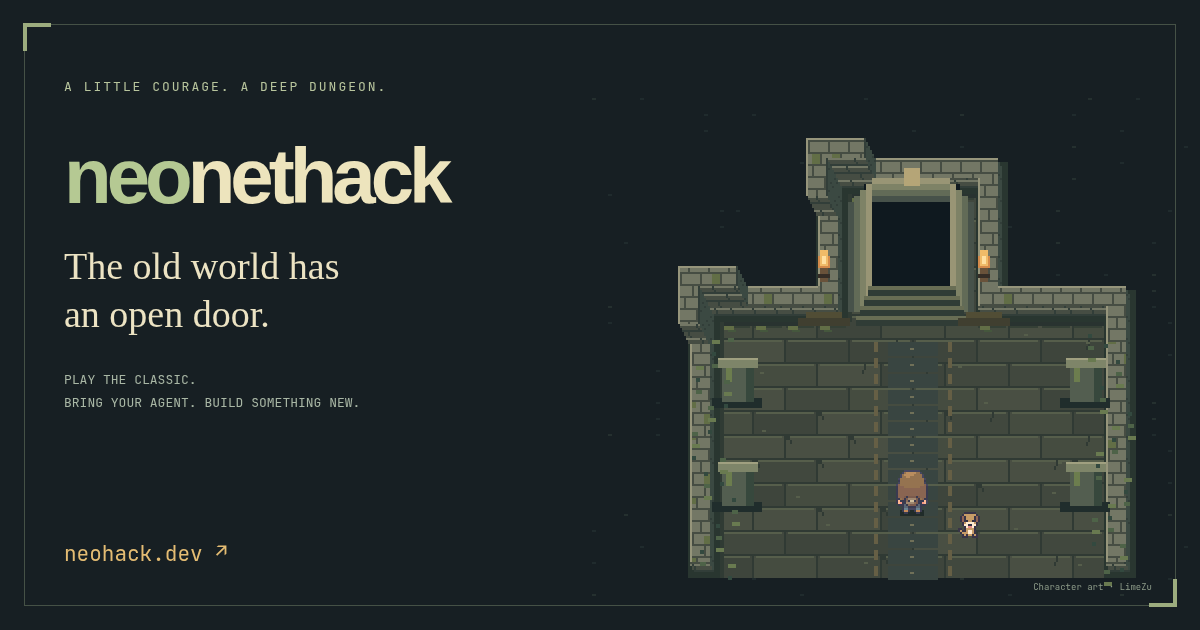
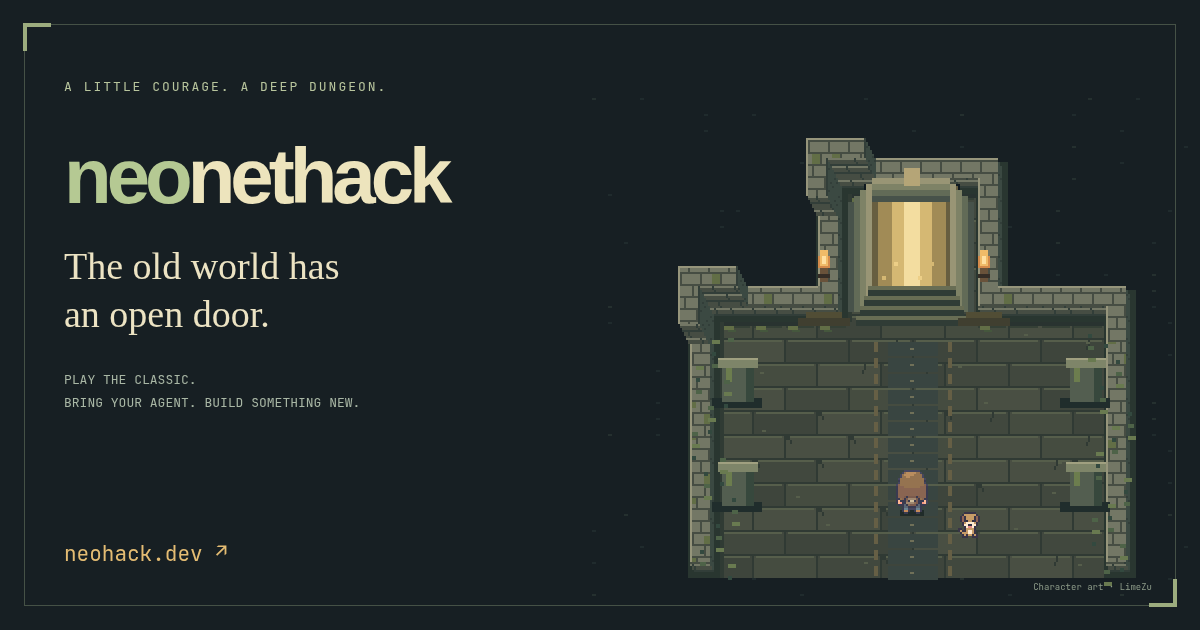
Add mouse camera controls, a glowing entrance, hobbit art, and idle cloud saving

Changed region(s): [[0.7092, 0.3016, 0.8017, 0.4524]]

diff --git a/example/pixel-bun/src/app.ts b/example/pixel-bun/src/app.ts
@@ -204,7 +204,7 @@ class PixelNethack extends HTMLElement {
     this.innerHTML = `
 
       <main id="main" tabindex="-1">
-        <div class="map-viewport"><canvas id="dungeon" tabindex="0" aria-label="Dungeon entrance. Use arrow keys to walk into the hall."></canvas></div>
+        <div class="map-viewport"><canvas id="dungeon" tabindex="0" aria-label="Dungeon entrance. Use arrow keys to walk into the hall."></canvas><button id="enter-gate" aria-label="Walk into the glowing gate and create an adventurer" title="Enter the dungeon"></button></div>
         <section id="welcome-copy" class="intro-title"><p class="eyebrow">A LITTLE COURAGE. A DEEP DUNGEON.</p><h1>neo<span>nethack</span></h1><p>The old world has an open door.</p><a class="paths-jump" href="#welcome-paths">Play, bring an agent, or build something new ↓</a></section>
         <section id="welcome-actions" class="intro-controls" aria-label="Learn to walk">
           <p id="intro-instruction">Walk into the light</p>
@@ -579,7 +579,7 @@ class PixelNethack extends HTMLElement {
           catch { this.text("#cloud-status", "Saved here · online save pending"); return; }
         }
         if (generation !== this.cloudStatusGeneration) return;
-        this.text("#cloud-status", state === "saved" ? "Saved online" : state === "pending" ? "Saving online…" : "Saved here · cloud sync paused");
+        this.text("#cloud-status", state === "saved" ? "Saved online" : state === "pending" ? "Saving online…" : state === "queued" ? "Saved here" : "Saved here · cloud sync paused");
         if (state === "error") this.error(Error(message));
       },
     });
@@ -800,6 +800,7 @@ class PixelNethack extends HTMLElement {
         labels[b.dataset.action!] ?? b.dataset.action!,
       );
     });
+    this.$("#enter-gate").onclick = () => this.walkToEntrance();
     this.$("#new-adventure").onclick = () => this.walkToEntrance();
     this.$("#continue-adventure").onclick = () =>
       this.resume(this.saves.find((s) => !s.ended)!);
@@ -808,12 +809,10 @@ class PixelNethack extends HTMLElement {
     this.$("#more-actions").setAttribute("aria-label", "More actions");
     this.$("#credits-button").onclick = () => this.credits();
     this.$("#zoom-in").onclick = () => {
-      this.map.zoom = Math.min(4, this.map.zoom + 1);
-      this.map.draw();
+      this.map.zoomTo(this.map.zoom + 1);
     };
     this.$("#zoom-out").onclick = () => {
-      this.map.zoom = Math.max(1, this.map.zoom - 1);
-      this.map.draw();
+      this.map.zoomTo(this.map.zoom - 1);
     };
     this.$("#center-map").onclick = () => this.map.center();
     this.$("#map-symbols").onclick = () => {
@@ -967,7 +966,7 @@ class PixelNethack extends HTMLElement {
       clearTimeout(this.cloudMetadataTimer);
       this.cloudMetadataTimer = setTimeout(() => {
         void publishCloud(this.saves, this.vault).catch(() => {});
-      }, 250);
+      }, 5000);
     }
 
   }
@@ -993,6 +992,7 @@ class PixelNethack extends HTMLElement {
     );
     for (const id of [
       "new-adventure",
+      "enter-gate",
       "continue-adventure",
       "adventures-button",
     ])
@@ -1013,6 +1013,7 @@ class PixelNethack extends HTMLElement {
     this.renderGround();
     this.show("#welcome-copy", !state);
     this.show("#welcome-actions", !state);
+    this.show("#enter-gate", !state);
     this.show("#welcome-paths", !state);
     this.show("#bookmark-hint", !!state);
     this.show("#abandon-run", !!state && !state.ended);
@@ -2137,7 +2138,7 @@ class PixelNethack extends HTMLElement {
   }
   private guide() {
     this.openMenu(
-      `<h2 id="menu-title">A small guide to a very big world.</h2><p>Find the Amulet of Yendor in the depths, and bring it back. Getting there is a story of curiosity, decisions, and learning from a short life or two.</p><div class="guide-section"><h3>01 / Take your time</h3><p>This is turn-based. Reading, inspecting the map, and opening your backpack cost nothing. An action can take time; the journal tells you what happened.</p></div><div class="guide-section"><h3>02 / Try one thing</h3><p>Tap W A S D, an arrow, or a direction button for one step; hold to walk. Release to stop repeating. Rapid taps keep at most one extra step buffered. Walking pauses at walls, nearby creatures, damage, and decisions. Press again deliberately to interact. Search around you, open a door, or pick up something interesting.</p></div><div class="guide-section"><h3>03 / Listen to the dungeon</h3><p>Hunger, danger, and strange objects are part of the adventure. Read warnings before answering. If eating or reading is interrupted, choose the action again only when you want to continue.</p></div><div class="guide-section"><h3>04 / Know what you know</h3><p>The map shows remembered terrain and currently perceived occupants. Creature and object art represents the visible NetHack category, not an exact identity. A green underline marks an ally. Use @ in the corner menu to show the original symbols. Raised stone edges frame corridors; recessed gaps lead toward unexplored space, where the layout is still unknown. Click a tile or open Surroundings for a text description.</p></div><dl class="key-list"><dt>W A S D / Arrows / H J K L</dt><dd>Tap to step · hold to walk</dd><dt>Y U B N</dt><dd>Move diagonally</dd><dt>. / F / G / E / O</dt><dd>Wait / search / pick up / eat / open</dd><dt>&lt; / &gt;</dt><dd>Go upstairs / downstairs</dd><dt>Enter / arrow keys / Escape</dt><dd>Inspect here / nearby tiles / return</dd><dt>I / ?</dt><dd>Backpack / this guide</dd><dt>Shift + arrows</dt><dd>Pan the map without moving</dd></dl><p class="save-explanation">Your game saves after each completed action, on this browser and address. Clearing site data removes saves. Keep the same game version to return to an older adventure.</p>`,
+      `<h2 id="menu-title">A small guide to a very big world.</h2><p>Find the Amulet of Yendor in the depths, and bring it back. Getting there is a story of curiosity, decisions, and learning from a short life or two.</p><div class="guide-section"><h3>01 / Take your time</h3><p>This is turn-based. Reading, inspecting the map, and opening your backpack cost nothing. An action can take time; the journal tells you what happened.</p></div><div class="guide-section"><h3>02 / Try one thing</h3><p>Tap W A S D, an arrow, or a direction button for one step; hold to walk. Release to stop repeating. Rapid taps keep at most one extra step buffered. Walking pauses at walls, nearby creatures, damage, and decisions. Press again deliberately to interact. Search around you, open a door, or pick up something interesting.</p></div><div class="guide-section"><h3>03 / Listen to the dungeon</h3><p>Hunger, danger, and strange objects are part of the adventure. Read warnings before answering. If eating or reading is interrupted, choose the action again only when you want to continue.</p></div><div class="guide-section"><h3>04 / Know what you know</h3><p>The map shows remembered terrain and currently perceived occupants. Creature and object art represents the visible NetHack category, not an exact identity. A green underline marks an ally. Use @ in the corner menu to show the original symbols. Raised stone edges frame corridors; recessed gaps lead toward unexplored space, where the layout is still unknown. Click a tile or open Surroundings for a text description.</p></div><dl class="key-list"><dt>W A S D / Arrows / H J K L</dt><dd>Tap to step · hold to walk</dd><dt>Y U B N</dt><dd>Move diagonally</dd><dt>. / F / G / E / O</dt><dd>Wait / search / pick up / eat / open</dd><dt>&lt; / &gt;</dt><dd>Go upstairs / downstairs</dd><dt>Enter / arrow keys / Escape</dt><dd>Inspect here / nearby tiles / return</dd><dt>I / ?</dt><dd>Backpack / this guide</dd><dt>Mouse wheel / middle drag</dt><dd>Zoom / look around without taking a turn</dd><dt>Shift + arrows</dt><dd>Pan the map without moving</dd></dl><p class="save-explanation">Your game saves after each completed action, on this browser and address. Clearing site data removes saves. Keep the same game version to return to an older adventure.</p>`,
     );
   }
   private credits() {

diff --git a/example/pixel-bun/src/map.ts b/example/pixel-bun/src/map.ts
@@ -259,6 +259,48 @@ export class DungeonMap {
     return y <= 96 && Math.abs(x - 160) <= 16 ? "entered" : "moved";
   }
   zoom = 3;
+  private zoomTarget = 3;
+  private zoomFrame = 0;
+  private drag: { id: number; x: number; y: number } | null = null;
+  private wheel = (event: WheelEvent) => {
+    if (!this.observation || event.ctrlKey || event.metaKey || !event.deltaY) return;
+    event.preventDefault();
+    const unit = event.deltaMode === 1 ? 16 : event.deltaMode === 2 ? this.canvas.clientHeight : 1;
+    this.zoomTo((this.zoomFrame ? this.zoomTarget : this.zoom) * Math.exp(-Math.max(-300, Math.min(300, event.deltaY * unit)) * .002));
+  };
+  private dragStart = (event: PointerEvent) => {
+    if (!this.observation || event.button !== 1) return;
+    event.preventDefault();
+    this.drag = { id: event.pointerId, x: event.clientX, y: event.clientY };
+    this.canvas.setPointerCapture(event.pointerId);
+    this.canvas.classList.add("panning");
+  };
+  private dragMove = (event: PointerEvent) => {
+    if (this.drag?.id !== event.pointerId) return;
+    if (!(event.buttons & 4)) { this.endDrag(); return; }
+    event.preventDefault();
+    this.pan((this.drag.x - event.clientX) / (16 * this.zoom), (this.drag.y - event.clientY) / (16 * this.zoom));
+    this.drag.x = event.clientX; this.drag.y = event.clientY;
+  };
+  private endDrag = () => {
+    const drag = this.drag; this.drag = null;
+    if (drag && this.canvas.hasPointerCapture(drag.id)) this.canvas.releasePointerCapture(drag.id);
+    this.canvas.classList.remove("panning");
+  };
+  private auxiliary = (event: MouseEvent) => { if (event.button === 1 && this.observation) event.preventDefault(); };
+  zoomTo(value: number) {
+    cancelAnimationFrame(this.zoomFrame);
+    this.zoomTarget = Math.max(1, Math.min(4, value));
+    if (this.reducedMotion.matches) { this.zoom = this.zoomTarget; this.zoomFrame = 0; this.draw(); return; }
+    const from = this.zoom, start = performance.now();
+    const frame = (now: number) => {
+      const t = Math.min(1, (now - start) / 160);
+      this.zoom = from + (this.zoomTarget - from) * (1 - (1 - t) ** 3);
+      this.draw(now);
+      this.zoomFrame = t < 1 ? requestAnimationFrame(frame) : 0;
+    };
+    this.zoomFrame = requestAnimationFrame(frame);
+  }
   symbols = false;
   private offset = { x: 0, y: 0 };
   private origin = { x: 0, y: 0 };
@@ -294,7 +336,10 @@ export class DungeonMap {
       this.clearMessages();
       this.actorMotions.clear();
     }
-    if (this.reducedMotion.matches) this.actorMotions.clear();
+    if (this.reducedMotion.matches) {
+      this.actorMotions.clear();
+      if (this.zoomFrame) { cancelAnimationFrame(this.zoomFrame); this.zoomFrame = 0; this.zoom = this.zoomTarget; }
+    }
     this.draw();
     if (!document.hidden && (!this.reducedMotion.matches || this.portalComplete))
       this.animation = requestAnimationFrame(this.animate);
@@ -335,16 +380,22 @@ export class DungeonMap {
     this.reducedMotion.addEventListener("change", this.motionChanged);
     document.addEventListener("visibilitychange", this.motionChanged);
     this.motionChanged();
+    canvas.addEventListener("wheel", this.wheel, { passive: false });
+    canvas.addEventListener("pointerdown", this.dragStart);
+    canvas.addEventListener("pointermove", this.dragMove);
+    canvas.addEventListener("pointerup", this.endDrag);
+    canvas.addEventListener("pointercancel", this.endDrag);
+    canvas.addEventListener("lostpointercapture", this.endDrag);
+    canvas.addEventListener("auxclick", this.auxiliary);
+    window.addEventListener("blur", this.endDrag);
     canvas.addEventListener("click", (e) => {
-      if (!this.observation) return;
+      if (!this.observation || e.button !== 0) return;
       const bounds = canvas.getBoundingClientRect();
       const shift = this.travel(performance.now());
       const x =
-        Math.floor(((e.clientX - bounds.left) / this.zoom - shift.x) / 16) +
-        this.origin.x;
+        Math.floor(((e.clientX - bounds.left) / this.zoom - shift.x) / 16 + this.origin.x);
       const y =
-        Math.floor(((e.clientY - bounds.top) / this.zoom - shift.y) / 16) +
-        this.origin.y;
+        Math.floor(((e.clientY - bounds.top) / this.zoom - shift.y) / 16 + this.origin.y);
       const cell = this.observation.world.find(
         (cell) => cell.x === x && cell.y === y,
       );
@@ -416,6 +467,7 @@ export class DungeonMap {
         this.travelStarted = -Infinity;
       }
     }
+    if (!observation) { this.endDrag(); cancelAnimationFrame(this.zoomFrame); this.zoomFrame = 0; }
     this.observation = observation;
     this.hero = hero;
     this.seed = seed;
@@ -512,6 +564,15 @@ export class DungeonMap {
     this.draw();
   }
   destroy() {
+    this.endDrag(); cancelAnimationFrame(this.zoomFrame);
+    this.canvas.removeEventListener("wheel", this.wheel);
+    this.canvas.removeEventListener("pointerdown", this.dragStart);
+    this.canvas.removeEventListener("pointermove", this.dragMove);
+    this.canvas.removeEventListener("pointerup", this.endDrag);
+    this.canvas.removeEventListener("pointercancel", this.endDrag);
+    this.canvas.removeEventListener("lostpointercapture", this.endDrag);
+    this.canvas.removeEventListener("auxclick", this.auxiliary);
+    window.removeEventListener("blur", this.endDrag);
     this.cancelIntroPortal();
     this.clearMessages();
     this.observer.disconnect();
@@ -721,13 +782,20 @@ export class DungeonMap {
     c.imageSmoothingEnabled = false;
     rect(c, "#171f23", 0, 0, canvas.width, canvas.height);
     if (!this.observation) {
+      const gate = canvas.parentElement?.querySelector<HTMLElement>("#enter-gate");
+      if (gate) {
+        gate.style.left = (Math.floor(cols * 8 - 160) + 137) * scale + "px";
+        gate.style.top = (Math.floor(rows * 8 - 128) + 44) * scale + "px";
+        gate.style.width = 46 * scale + "px";
+        gate.style.height = 58 * scale + "px";
+      }
       this.drawWelcomeArt(c, cols, rows, now);
       return;
     }
     const you = this.observation.you;
     this.origin = {
-      x: (you?.x ?? 40) - Math.floor(cols / 2) + this.offset.x,
-      y: (you?.y ?? 10) - Math.floor(rows / 2) + this.offset.y,
+      x: Math.round(((you?.x ?? 40) + .5 - width / (32 * scale) + this.offset.x) * 16) / 16,
+      y: Math.round(((you?.y ?? 10) + .5 - height / (32 * scale) + this.offset.y) * 16) / 16,
     };
     this.positionMessages(now);
     const target = canvas.parentElement!.querySelector<HTMLElement>("#direction-target");
@@ -756,10 +824,9 @@ export class DungeonMap {
     const shift = this.travel(now);
     c.save();
     c.translate(shift.x, shift.y);
-    for (let y = -16; y < canvas.height + 16; y += 16)
-      for (let x = -16; x < canvas.width + 16; x += 16) {
-        const wx = this.origin.x + x / 16,
-          wy = this.origin.y + y / 16;
+    for (let wy = Math.floor(this.origin.y) - 1; wy < this.origin.y + rows + 1; wy++)
+      for (let wx = Math.floor(this.origin.x) - 1; wx < this.origin.x + cols + 1; wx++) {
+        const x = (wx - this.origin.x) * 16, y = (wy - this.origin.y) * 16;
         if (((wx * 31 + wy * 17) & 7) === 0)
           rect(c, "#1b2429", x + 3, y + 9, 3, 1);
       }
@@ -1036,6 +1103,13 @@ export class DungeonMap {
     }
     // Recessed entry and three stepped voussoirs give the hall real depth.
     rect(c, "#0f191f", 136, 43, 48, 60);
+    if (portal === null) {
+      rect(c, "#675e40", 137, 44, 46, 58);
+      rect(c, "#a18b56", 143, 44, 34, 58);
+      rect(c, "#d5b873", 150, 44, 20, 58);
+      rect(c, "#f3dda0", 156, 44, 8, 58);
+      for (let i = 0; i < 7; i++) rect(c, i % 2 ? "#d5b873" : "#edcf87", 139 + i * 6, 96 - (i % 3) * 7, 2, 2);
+    }
     if (portal !== null) {
       const charge = Math.min(1, portal / 0.28),
         pull = Math.max(0, Math.min(1, (portal - 0.12) / 0.64)),

diff --git a/example/pixel-bun/src/encounter-art.ts b/example/pixel-bun/src/encounter-art.ts
@@ -9,6 +9,23 @@ export type CreaturePixels = {
   rise?: number;
 };
 export const encounterArt: Record<string, CreaturePixels> = {
+  hobbit: {
+    body: "#7e9560", shade: "#76513b", highlight: "#dec09a",
+    pixels: [
+      "....ss.ss...",
+      "...s#ssss#..",
+      "...#sssss#..",
+      "...#hhhhh#..",
+      "...#h#h#h#..",
+      "....#hhh#...",
+      "...#ohooo#..",
+      "..#hohoooh#.",
+      "...#ooooo#..",
+      "....#sss#...",
+      "...#hh#hh#..",
+      "...###.###..",
+    ],
+  },
   "grid bug": {
     body: "#a0b384", shade: "#52685b", highlight: "#c6d9ad",
     pixels: ["#....#..", ".#..#...", "..##....", ".#ho#...", "#oss##..", ".####.#.", "#....#.."],

diff --git a/example/pixel-bun/public/style.css b/example/pixel-bun/public/style.css
@@ -1590,3 +1590,7 @@ pixel-nethack:not(.in-game) .intro-controls {
   .intro-controls #intro-instruction { font-size: 18px; }
   .intro-controls #continue-adventure { min-width: 0; width: 146px; padding: 10px 8px; }
 }
+.map-viewport canvas.panning { cursor: grabbing; }
+#enter-gate { position: absolute; border: 0; padding: 0; background: transparent; box-shadow: none; cursor: pointer; }
+#enter-gate:hover, #enter-gate:focus-visible { background: #ffe1a01a; outline: none; box-shadow: inset 0 -3px #f3dda0; }
+#enter-gate:disabled { pointer-events: none; opacity: 1; }

diff --git a/lib/neonethack/typescript/wasm.ts b/lib/neonethack/typescript/wasm.ts
@@ -13,7 +13,7 @@ export interface WasmOptions {
   timeoutMs?: number;
   onDiagnostic?: (message: string) => void;
   /** Remote replication is asynchronous; local durability remains awaited. */
-  onReplicaStatus?: (status: { state: "pending" | "saved" | "error"; message: string }) => void;
+  onReplicaStatus?: (status: { state: "queued" | "pending" | "saved" | "error"; message: string }) => void;
 }
 /** The worker boundary is private. All gameplay uses the same C ABI as native. */
 export class WasmTransport implements Transport {

diff --git a/example/pixel-bun/DESIGN.md b/example/pixel-bun/DESIGN.md
@@ -540,3 +540,26 @@ Provide a 1200×630 Open Graph card, 1500×500 profile banner with avatar space,
 1920×1080 transparent stream overlay. `art/social/composition.html` is the editable
 composition; `scripts/build-social.ts` renders static, integer-scale frames through
 the shared welcome-art method. Website metadata uses absolute neohack.dev URLs.
+
+Mouse wheel zooms the dungeon between 1× and 4× over a short eased camera
+transition; reduced motion applies it immediately. Fractional CSS enlargement
+keeps nearest-neighbor pixels while native camera coordinates snap to pixel units.
+Middle mouse drag pans without engine input, uses pointer capture and releases on
+pointer cancellation or window blur. Wheel events over HTML controls keep normal
+scrolling; browser Ctrl/Command zoom remains available. Tile picking follows the
+same current camera transform. Zoom buttons and Center remain keyboard alternatives.
+
+The title doorway has steady warm, stepped light from the first frame. An accessible
+button over the actual gate starts the existing traveler walk and portal sequence,
+then opens character creation. Clicking the doorway does not create a run itself.
+
+A perceived hobbit uses a distinct original 12×12 silhouette: curly brown hair,
+a sage waistcoat, warm face and broad bare feet. Keep the same native-pixel scale
+as other small humanoids; use it only for the engine-supplied "hobbit" appearance,
+never infer species from the h glyph. The unknown humanoid fallback stays generic.
+
+Cloud journal and adventure metadata uploads wait for five seconds of inactivity.
+New actions reset the timer. Queued changes show a stable "Saved here" status;
+"Saving online…" appears only during an actual upload, with duplicate status
+notifications suppressed. Local durable input transactions stay immediate, and
+explicit runtime close flushes pending cloud work without waiting for the debounce.

diff --git a/lib/neonethack/docs/WASM.md b/lib/neonethack/docs/WASM.md
@@ -104,7 +104,9 @@ export/import tooling is not yet part of the public v1 API.
 Set `replicaUrl` on an IndexedDB storage configuration to use an opaque journal
 endpoint implementing the [cloud commit protocol](CLOUD_SAVES.md). Uploads are
 background work; local pre-input transactions remain awaited. Use
-`onReplicaStatus` to distinguish pending, acknowledged and failed cloud saves.
+`onReplicaStatus` reports `queued` during the five-second inactivity debounce,
+`pending` during upload, `saved` after acknowledgement, and `error` on failure.
+Repeated identical statuses are suppressed. Explicit close flushes immediately.
 The pixel client supplies the Durable Object implementation.
 
 ## Build identity and resume

diff --git a/lib/neonethack/docs/CLOUD_SAVES.md b/lib/neonethack/docs/CLOUD_SAVES.md
@@ -33,7 +33,7 @@ uncertain, and replay must not treat it as a new action.
 
 C pre-input `fsync` boundaries still wait for strict IndexedDB transactions.
 Remote latency is outside that boundary. After a completed protocol request, a
-100 ms debounce batches the latest committed journal data for upload. One upload
+five-second inactivity debounce batches the latest committed journal data for upload. One upload
 runs at a time; new input can continue while it is in flight. Unchanged
 content-addressed blocks are not resent. Durable Objects store blocks in separate
 rows and atomically commit the file manifest and revision. Separate block rows
